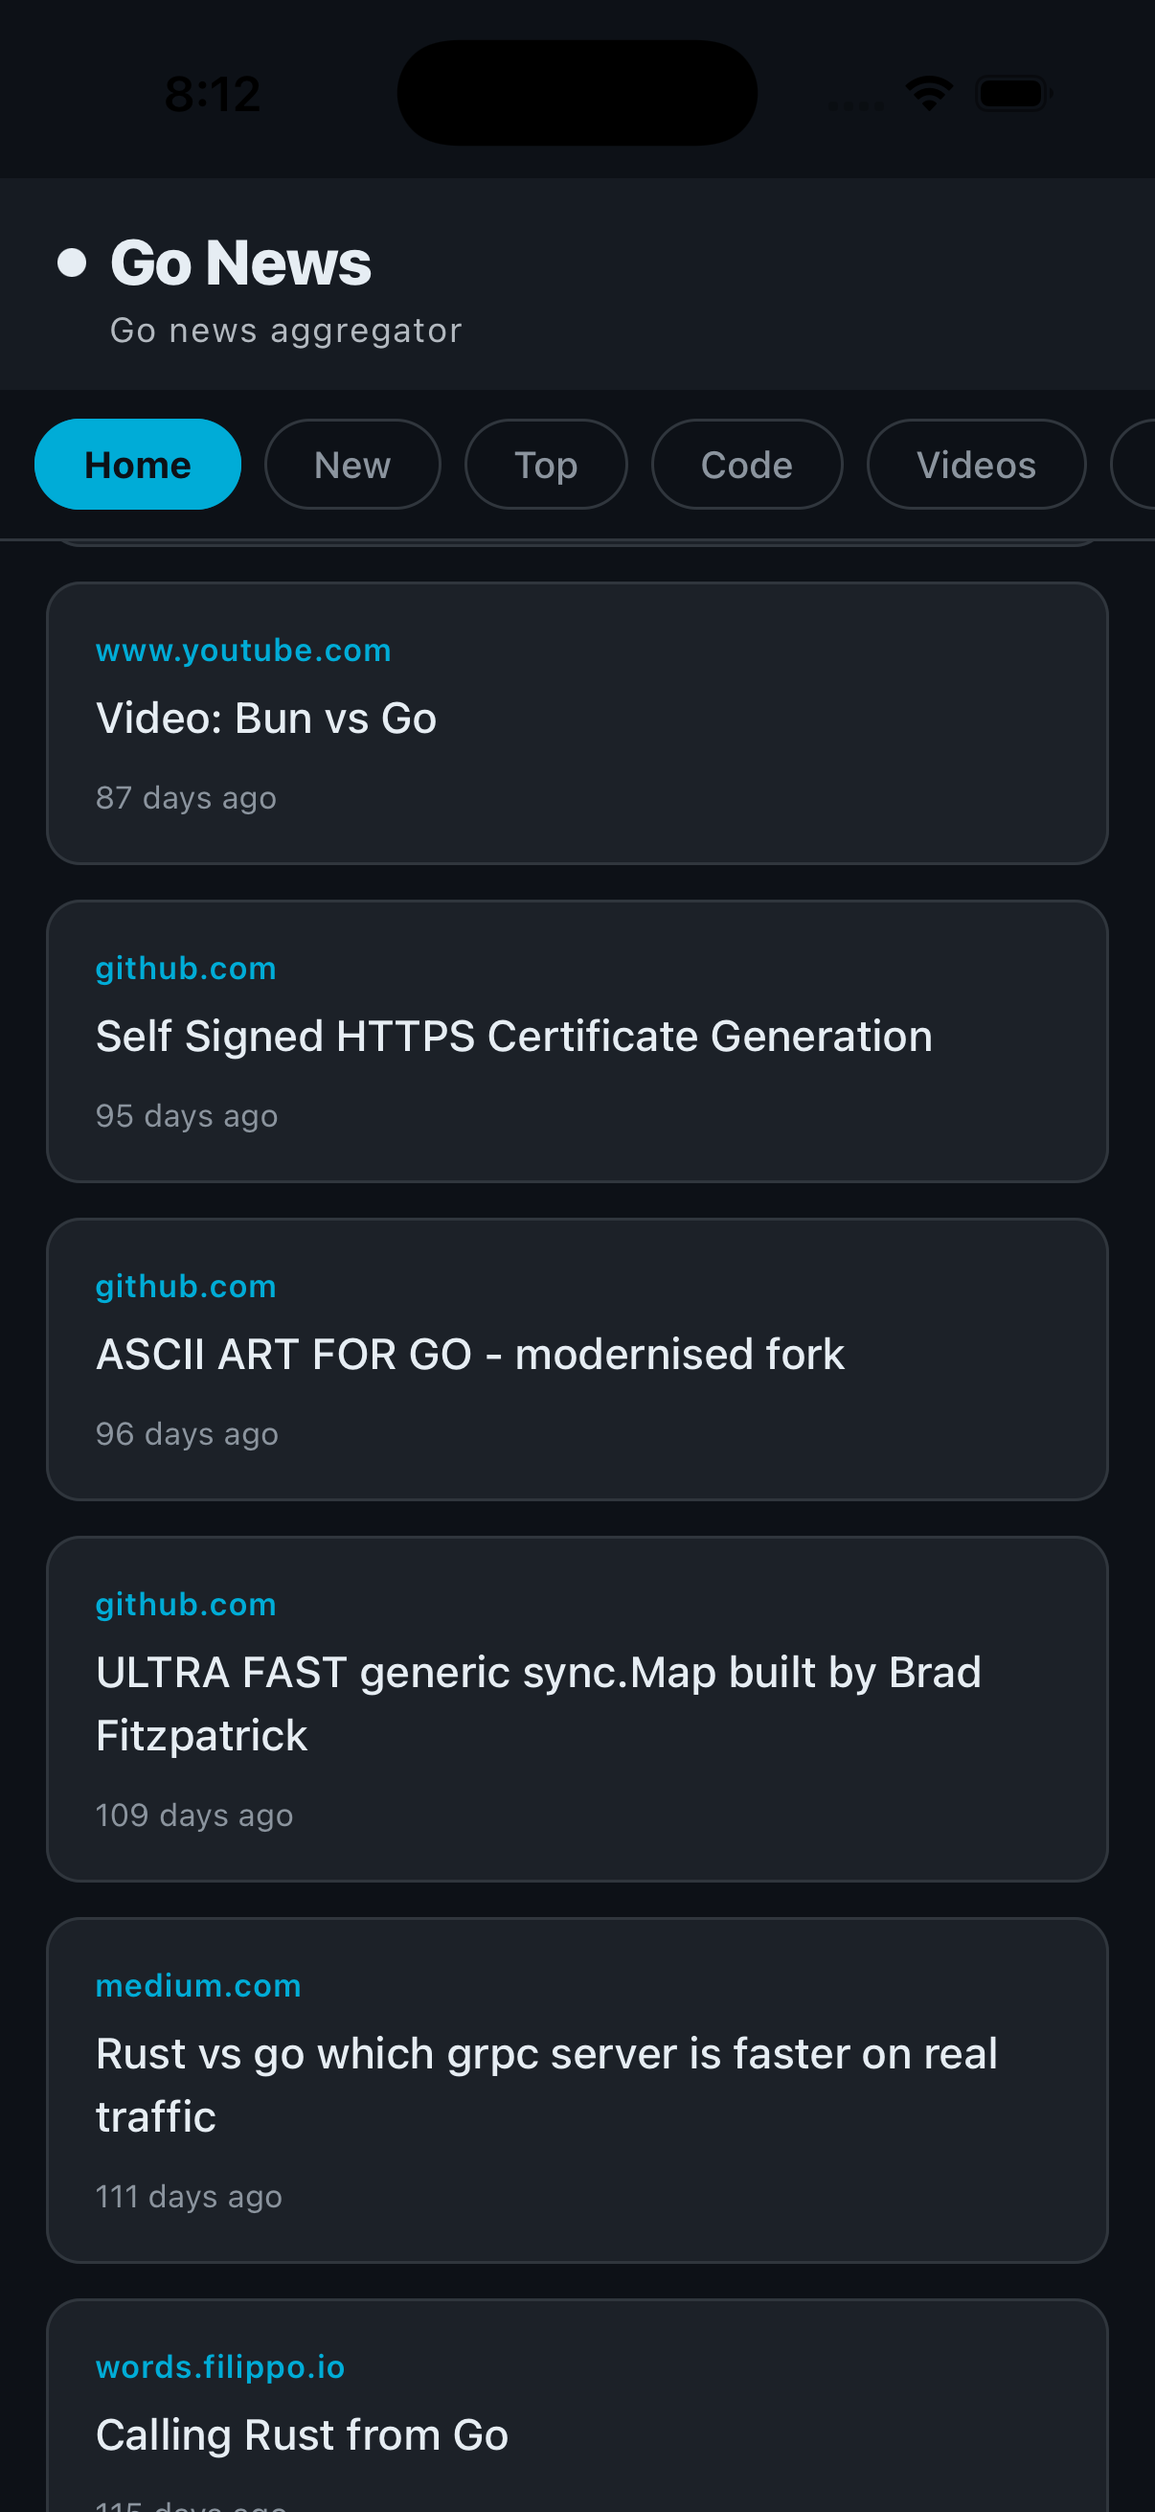
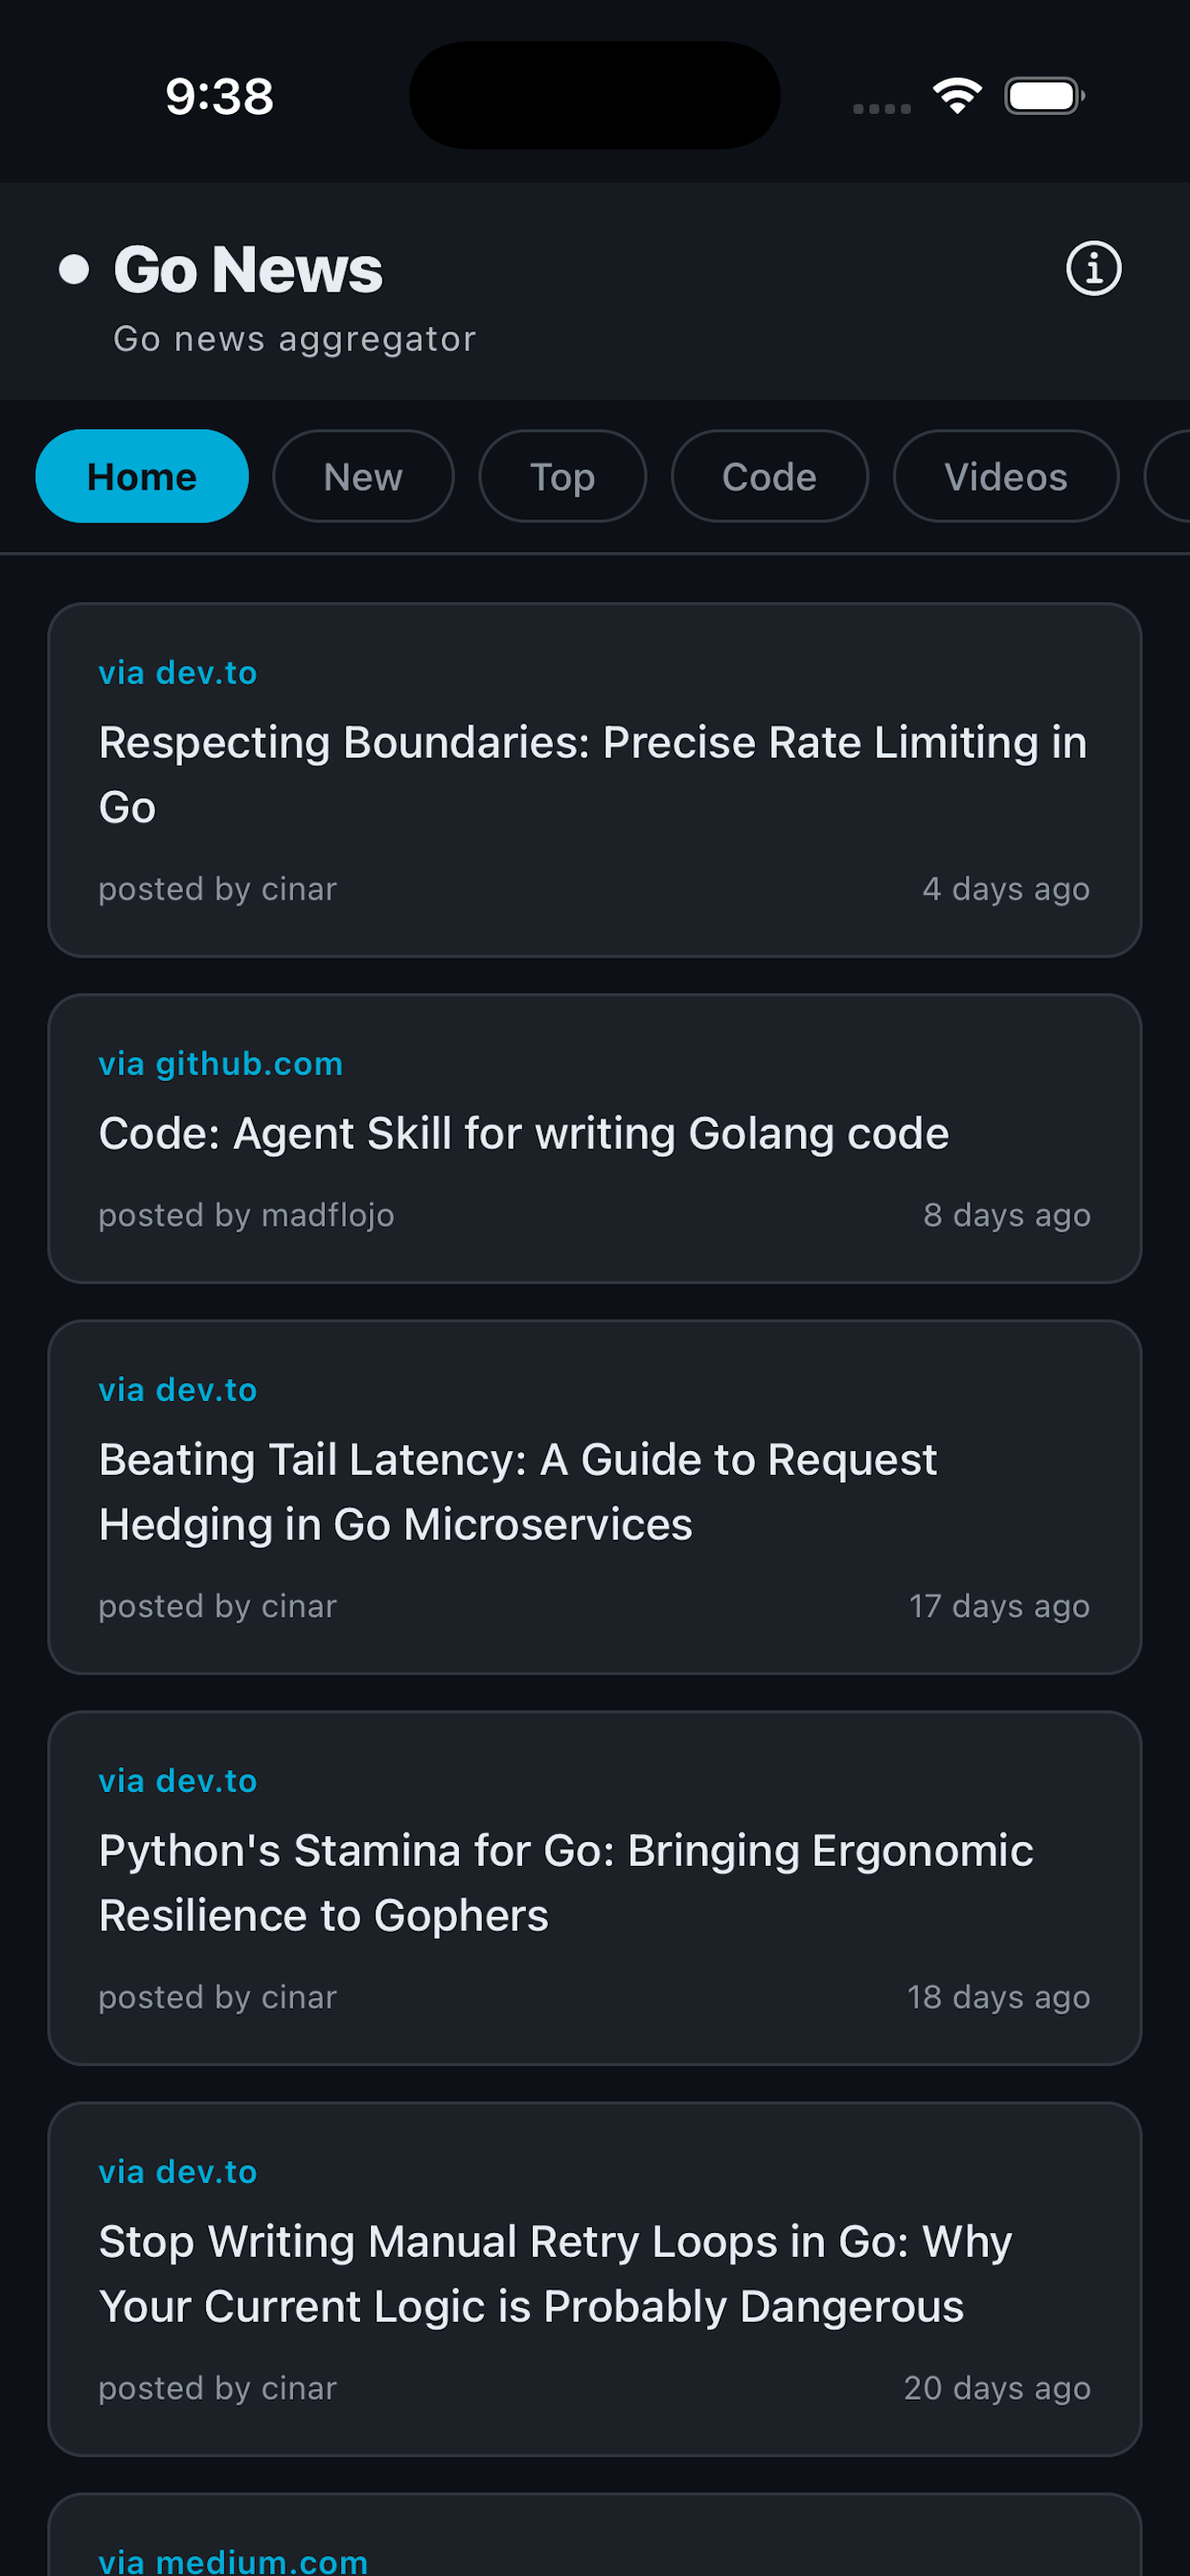
Add Contact Us button, tablet font scaling, screenshots, and gopher header image
- Add Contact Us button (mail icon + label) to feed header
- Add tablet font scaling via useWindowDimensions across all components
- Update screenshots for all Android form factors (phone, 7-inch, tablet)
- Add gopher images and README header banner
- Bump version to 2.2.1, versionCode/buildNumber to 9
- Add expo-font dependency, ITSAppUsesNonExemptEncryption to Info.plist
- Update .gitignore to track ios/ and android/ folders

diff --git a/src/screens/FeedScreen.js b/src/screens/FeedScreen.js
@@ -9,6 +9,7 @@ import {
   BackHandler,
   Platform,
   Linking,
+  useWindowDimensions,
 } from 'react-native';
 import { useSafeAreaInsets } from 'react-native-safe-area-context';
 import { useFocusEffect } from '@react-navigation/native';
@@ -117,7 +118,9 @@ function parseItems(rawItems) {
 
 export default function FeedScreen({ navigation }) {
   const colors = useTheme();
-  const styles = useMemo(() => makeStyles(colors), [colors]);
+  const { width } = useWindowDimensions();
+  const fontScale = width >= 768 ? Math.min(width / 390, 1.35) : 1;
+  const styles = useMemo(() => makeStyles(colors, fontScale), [colors, fontScale]);
   const insets = useSafeAreaInsets();
 
   const [items, setItems] = useState([]);
@@ -242,8 +245,10 @@ export default function FeedScreen({ navigation }) {
             hitSlop={{ top: 10, bottom: 10, left: 10, right: 10 }}
             accessibilityLabel="Contact Us"
             accessibilityRole="button"
+            style={styles.contactBtn}
           >
-            <Ionicons name="information-circle-outline" size={24} color={colors.headerText} />
+            <Ionicons name="mail-outline" size={16} color={colors.headerText} />
+            <Text style={styles.contactBtnText}>Contact Us</Text>
           </TouchableOpacity>
         </View>
         <Text style={styles.headerSubtitle}>Go news aggregator</Text>
@@ -297,7 +302,8 @@ export default function FeedScreen({ navigation }) {
   );
 }
 
-function makeStyles(colors) {
+function makeStyles(colors, fontScale = 1) {
+  const fs = (size) => Math.round(size * fontScale);
   return StyleSheet.create({
     container: {
       flex: 1,
@@ -331,13 +337,13 @@ function makeStyles(colors) {
       backgroundColor: colors.headerText,
     },
     headerTitle: {
-      fontSize: 22,
+      fontSize: fs(22),
       fontWeight: '800',
       color: colors.headerText,
       letterSpacing: -0.3,
     },
     headerSubtitle: {
-      fontSize: 12,
+      fontSize: fs(12),
       color: colors.headerText,
       marginTop: 3,
       marginLeft: 18,
@@ -363,9 +369,9 @@ function makeStyles(colors) {
     },
     errorText: {
       color: colors.textSecondary,
-      fontSize: 14,
+      fontSize: fs(14),
       textAlign: 'center',
-      lineHeight: 22,
+      lineHeight: fs(22),
       marginBottom: 24,
     },
     retryButton: {
@@ -377,18 +383,32 @@ function makeStyles(colors) {
     retryText: {
       color: colors.background,
       fontWeight: '700',
-      fontSize: 14,
+      fontSize: fs(14),
     },
     emptyText: {
       color: colors.textSecondary,
-      fontSize: 15,
+      fontSize: fs(15),
     },
     privacyLink: {
       color: colors.textSecondary,
-      fontSize: 12,
+      fontSize: fs(12),
       textAlign: 'center',
       textDecorationLine: 'underline',
       paddingVertical: 16,
+    },
+    contactBtn: {
+      flexDirection: 'row',
+      alignItems: 'center',
+      gap: 5,
+      backgroundColor: 'rgba(255,255,255,0.15)',
+      borderRadius: 16,
+      paddingHorizontal: 10,
+      paddingVertical: 5,
+    },
+    contactBtnText: {
+      color: colors.headerText,
+      fontSize: fs(13),
+      fontWeight: '600',
     },
   });
 }

diff --git a/src/components/NewsCard.js b/src/components/NewsCard.js
@@ -1,12 +1,14 @@
 import React, { useMemo } from 'react';
-import { View, Text, TouchableOpacity, StyleSheet } from 'react-native';
+import { View, Text, TouchableOpacity, StyleSheet, useWindowDimensions } from 'react-native';
 import { TAG_PREFIX } from '../constants';
 import { useTheme } from '../context/ThemeContext';
 import { getDomain, getRelativeDate, parseTitle } from '../utils';
 
 export default function NewsCard({ item, onPress, onTagPress }) {
   const colors = useTheme();
-  const styles = useMemo(() => makeStyles(colors), [colors]);
+  const { width } = useWindowDimensions();
+  const fontScale = width >= 768 ? Math.min(width / 390, 1.35) : 1;
+  const styles = useMemo(() => makeStyles(colors, fontScale), [colors, fontScale]);
 
   const { cleanTitle, tags } = parseTitle(item.title || '');
   const domain = getDomain(item.link || '');
@@ -52,7 +54,8 @@ export default function NewsCard({ item, onPress, onTagPress }) {
   );
 }
 
-function makeStyles(colors) {
+function makeStyles(colors, fontScale = 1) {
+  const fs = (size) => Math.round(size * fontScale);
   return StyleSheet.create({
     card: {
       backgroundColor: colors.card,
@@ -64,7 +67,7 @@ function makeStyles(colors) {
       marginVertical: 6,
     },
     domain: {
-      fontSize: 11,
+      fontSize: fs(11),
       color: colors.accent,
       fontWeight: '600',
       marginBottom: 6,
@@ -72,10 +75,10 @@ function makeStyles(colors) {
       letterSpacing: 0.2,
     },
     title: {
-      fontSize: 15,
+      fontSize: fs(15),
       color: colors.textPrimary,
       fontWeight: '500',
-      lineHeight: 22,
+      lineHeight: fs(22),
       marginBottom: 8,
     },
     tagsRow: {
@@ -92,7 +95,7 @@ function makeStyles(colors) {
     },
     tagText: {
       color: colors.tagText,
-      fontSize: 12,
+      fontSize: fs(12),
       fontWeight: '500',
     },
     metaRow: {
@@ -103,7 +106,7 @@ function makeStyles(colors) {
       gap: 4,
     },
     date: {
-      fontSize: 11,
+      fontSize: fs(11),
       color: colors.textSecondary,
     },
   });

diff --git a/src/components/CategoryTabs.js b/src/components/CategoryTabs.js
@@ -1,11 +1,13 @@
 import React, { useRef, useMemo, useEffect } from 'react';
-import { ScrollView, TouchableOpacity, Text, StyleSheet, View } from 'react-native';
+import { ScrollView, TouchableOpacity, Text, StyleSheet, View, useWindowDimensions } from 'react-native';
 import { CATEGORIES } from '../constants';
 import { useTheme } from '../context/ThemeContext';
 
 export default function CategoryTabs({ selected, onSelect }) {
   const colors = useTheme();
-  const styles = useMemo(() => makeStyles(colors), [colors]);
+  const { width } = useWindowDimensions();
+  const fontScale = width >= 768 ? Math.min(width / 390, 1.35) : 1;
+  const styles = useMemo(() => makeStyles(colors, fontScale), [colors, fontScale]);
   const scrollRef = useRef(null);
   const tabOffsets = useRef({});
 
@@ -48,7 +50,8 @@ export default function CategoryTabs({ selected, onSelect }) {
   );
 }
 
-function makeStyles(colors) {
+function makeStyles(colors, fontScale = 1) {
+  const fs = (size) => Math.round(size * fontScale);
   return StyleSheet.create({
     wrapper: {
       borderBottomWidth: 1,
@@ -73,7 +76,7 @@ function makeStyles(colors) {
     },
     tabText: {
       color: colors.textSecondary,
-      fontSize: 13,
+      fontSize: fs(13),
       fontWeight: '500',
     },
     tabTextActive: {

diff --git a/README.md b/README.md
@@ -1,5 +1,7 @@
 # Go News
 
+![Go News](assets/images/gopher-plan-1024x500.png)
+
 A modern Go programming language news aggregator for iOS and Android, powered by [golangnews.com](https://golangnews.com/).
 
 Built with [Expo](https://expo.dev/) SDK 54 and [React Native](https://reactnative.dev/).
